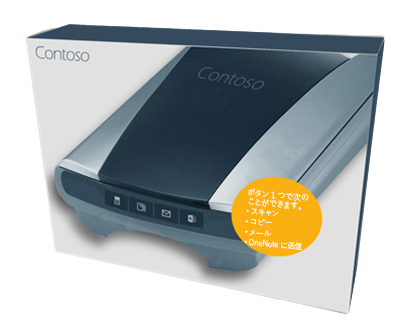
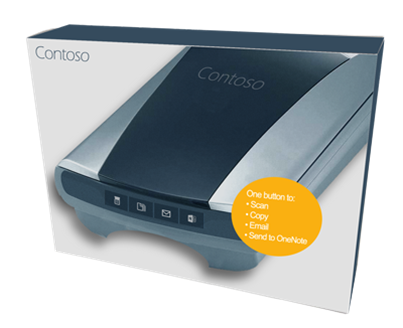
commit bilingual contents

diff --git a/concepts/onenote-branding.md b/concepts/onenote-branding.md
@@ -4,182 +4,182 @@ description: " "
 author: jewan-microsoft
 localization_priority: Normal
 ms.prod: onenote
-ms.openlocfilehash: 472b1cf54582dfde21bb2137c5d4628d17664e94
-ms.sourcegitcommit: 36be044c89a19af84c93e586e22200ec919e4c9f
-ms.translationtype: HT
+ms.openlocfilehash: 416b059eabe277dc356e3ac9c1de5849ade8aa23
+ms.sourcegitcommit: bbe42a15dad4ffe037a6934ab6001b585b7574c2
+ms.translationtype: MT
 ms.contentlocale: ja-JP
-ms.lasthandoff: 01/12/2019
-ms.locfileid: "27928872"
+ms.lasthandoff: 04/17/2019
+ms.locfileid: "31904078"
 ---
-# <a name="branding-guidelines-for-onenote-api-developers"></a><span data-ttu-id="44c05-102">OneNote API 開発者向けのブランドに関するガイドライン</span><span class="sxs-lookup"><span data-stu-id="44c05-102">Branding guidelines for OneNote API developers</span></span> 
+# <a name="branding-guidelines-for-onenote-api-developers"></a><span data-ttu-id="91a68-102">OneNote API 開発者向けのブランドに関するガイドライン</span><span class="sxs-lookup"><span data-stu-id="91a68-102">Branding guidelines for OneNote API developers</span></span> 
  
-<span data-ttu-id="44c05-103">**適用対象** OneDrive のコンシューマー ノートブック | Office 365 のエンタープライズ ノートブック</span><span class="sxs-lookup"><span data-stu-id="44c05-103">**Applies to** Consumer notebooks on OneDrive | Enterprise notebooks on Office 365</span></span>
+<span data-ttu-id="91a68-103">**適用対象** OneDrive のコンシューマー ノートブック | Office 365 のエンタープライズ ノートブック</span><span class="sxs-lookup"><span data-stu-id="91a68-103">**Applies to** Consumer notebooks on OneDrive | Enterprise notebooks on Office 365</span></span>
 
-<span data-ttu-id="44c05-104">この記事のガイドラインに従って、OneNote ブランドを最適な方法で製品に統合し、OneNote ブランド化の要件を満たしてください。</span><span class="sxs-lookup"><span data-stu-id="44c05-104">Follow the guidance in this article to best integrate the OneNote brand within your product and satisfy OneNote branding requirements.</span></span>
+<span data-ttu-id="91a68-104">この記事のガイドラインに従って、OneNote ブランドを最適な方法で製品に統合し、OneNote ブランド化の要件を満たしてください。</span><span class="sxs-lookup"><span data-stu-id="91a68-104">Follow the guidance in this article to best integrate the OneNote brand within your product and satisfy OneNote branding requirements.</span></span>
 
 <a name="download-logos"></a>
 
-## <a name="downloadable-logos"></a><span data-ttu-id="44c05-105">ダウンロード可能なロゴ</span><span class="sxs-lookup"><span data-stu-id="44c05-105">Downloadable logos</span></span>
+## <a name="downloadable-logos"></a><span data-ttu-id="91a68-105">ダウンロード可能なロゴ</span><span class="sxs-lookup"><span data-stu-id="91a68-105">Downloadable logos</span></span>
 
-<span data-ttu-id="44c05-106">この記事に示すロゴとガイドラインの PDF コピーは、「[OneNote API 開発者向けのブランドに関するガイドライン](https://www.microsoft.com/download/details.aspx?id=42977)」のダウンロード ページからダウンロードできます。</span><span class="sxs-lookup"><span data-stu-id="44c05-106">You can download the logos shown in this article and a PDF copy of these guidelines from our [Branding guidelines for OneNote API developers](https://www.microsoft.com/download/details.aspx?id=42977) download page.</span></span>
+<span data-ttu-id="91a68-106">この記事に示すロゴとガイドラインの PDF コピーは、「[OneNote API 開発者向けのブランドに関するガイドライン](https://www.microsoft.com/download/details.aspx?id=42977)」のダウンロード ページからダウンロードできます。</span><span class="sxs-lookup"><span data-stu-id="91a68-106">You can download the logos shown in this article and a PDF copy of these guidelines from our [Branding guidelines for OneNote API developers](https://www.microsoft.com/download/details.aspx?id=42977) download page.</span></span>
 
 <a name="variations"></a>
 
-## <a name="logo-variations"></a><span data-ttu-id="44c05-107">ロゴのバリエーション</span><span class="sxs-lookup"><span data-stu-id="44c05-107">Logo variations</span></span>
+## <a name="logo-variations"></a><span data-ttu-id="91a68-107">ロゴのバリエーション</span><span class="sxs-lookup"><span data-stu-id="91a68-107">Logo variations</span></span>
 
-### <a name="icon-and-name-lockup-preferred"></a><span data-ttu-id="44c05-108">アイコンと名称の一体化 (推奨)</span><span class="sxs-lookup"><span data-stu-id="44c05-108">Icon and name lockup (preferred)</span></span> 
+### <a name="icon-and-name-lockup-preferred"></a><span data-ttu-id="91a68-108">アイコンと名称の一体化 (推奨)</span><span class="sxs-lookup"><span data-stu-id="91a68-108">Icon and name lockup (preferred)</span></span> 
 
-<span data-ttu-id="44c05-109">アイコン シンボルと名称は一体化されています。</span><span class="sxs-lookup"><span data-stu-id="44c05-109">The icon symbol is locked with the name.</span></span> <span data-ttu-id="44c05-110">これが、OneNote ロゴに推奨されるグラフィック表現です。</span><span class="sxs-lookup"><span data-stu-id="44c05-110">This is the preferred graphic representation of the OneNote logo.</span></span>
+<span data-ttu-id="91a68-109">アイコン シンボルと名称は一体化されています。</span><span class="sxs-lookup"><span data-stu-id="91a68-109">The icon symbol is locked with the name.</span></span> <span data-ttu-id="91a68-110">これが、OneNote ロゴに推奨されるグラフィック表現です。</span><span class="sxs-lookup"><span data-stu-id="91a68-110">This is the preferred graphic representation of the OneNote logo.</span></span>
 
-![アイコンと名称の両方が含まれているロゴ。](images/onenotelogobgs.png)
+![Logos that includes both the icon and the name.](images/onenotelogobgs.png)
 
-### <a name="icon-symbol"></a><span data-ttu-id="44c05-113">アイコン シンボル</span><span class="sxs-lookup"><span data-stu-id="44c05-113">Icon symbol</span></span> 
+### <a name="icon-symbol"></a><span data-ttu-id="91a68-113">アイコン シンボル</span><span class="sxs-lookup"><span data-stu-id="91a68-113">Icon symbol</span></span> 
 
-<span data-ttu-id="44c05-p103">小型デバイスなどの特定の環境には、完全なロゴの一体化のために十分なスペースが用意できません。このような場合は、アプリやデジタル マーケティングにアイコン シンボルのみを使用してもかまいません。アプリで使用する際には、OneNote を表すアイコンまたはファビコンが必要なときにのみ、アイコン シンボルだけを単独で使用します。</span><span class="sxs-lookup"><span data-stu-id="44c05-p103">Certain environments, such as on small devices, don't provide enough room for the entire logo lockup. In those cases, the icon symbol alone may be used in an app or in digital marketing. When used in an app, use the icon symbol alone only when you need an icon or favicon to represent OneNote.</span></span>
+<span data-ttu-id="91a68-p103">小型デバイスなどの特定の環境には、完全なロゴの一体化のために十分なスペースが用意できません。このような場合は、アプリやデジタル マーケティングにアイコン シンボルのみを使用してもかまいません。アプリで使用する際には、OneNote を表すアイコンまたはファビコンが必要なときにのみ、アイコン シンボルだけを単独で使用します。</span><span class="sxs-lookup"><span data-stu-id="91a68-p103">Certain environments, such as on small devices, don't provide enough room for the entire logo lockup. In those cases, the icon symbol alone may be used in an app or in digital marketing. When used in an app, use the icon symbol alone only when you need an icon or favicon to represent OneNote.</span></span>
 
-![アイコンのみを含むロゴ。](images/onenotelogoicon.png)
+![Logo that includes only the icon.  Versions with purple on white and reversed.](images/onenotelogoicon.png)
 
 <a name="spacing"></a>
 
-## <a name="clear-space"></a><span data-ttu-id="44c05-119">クリア スペース</span><span class="sxs-lookup"><span data-stu-id="44c05-119">Clear space</span></span> 
+## <a name="clear-space"></a><span data-ttu-id="91a68-119">クリア スペース</span><span class="sxs-lookup"><span data-stu-id="91a68-119">Clear space</span></span> 
 
-<span data-ttu-id="44c05-p105">ロゴは丁寧に扱い、周囲に空きスペースを取ってください。最小クリア スペースは、ロゴの周囲にアイコン シンボルをちょうど配置できるスペースです。</span><span class="sxs-lookup"><span data-stu-id="44c05-p105">Treat the logo with respect and give it room to breathe. A minimum clear space equivalent to the height of the symbol must surround the logo.</span></span>
+<span data-ttu-id="91a68-p105">ロゴは丁寧に扱い、周囲に空きスペースを取ってください。最小クリア スペースは、ロゴの周囲にアイコン シンボルをちょうど配置できるスペースです。</span><span class="sxs-lookup"><span data-stu-id="91a68-p105">Treat the logo with respect and give it room to breathe. A minimum clear space equivalent to the height of the symbol must surround the logo.</span></span>
 
-![アイコンのみを含むロゴ -- 白地に紫と、それを反転したもの](images/onenotelogoclearspace.png)
+![シンボルの高さであるクリア psace を示すロゴ](images/onenotelogoclearspace.png)
 
 
 <a name="size"></a>
 
-## <a name="minimum-size"></a><span data-ttu-id="44c05-123">最小サイズ</span><span class="sxs-lookup"><span data-stu-id="44c05-123">Minimum size</span></span> 
+## <a name="minimum-size"></a><span data-ttu-id="91a68-123">最小サイズ</span><span class="sxs-lookup"><span data-stu-id="91a68-123">Minimum size</span></span> 
 
-<span data-ttu-id="44c05-124">ロゴは、画面に表示する場合は最低 16 ピクセルの高さにします。また、印刷物に表示する場合は最低 5 mm (0.2 インチ) の高さにします。</span><span class="sxs-lookup"><span data-stu-id="44c05-124">The logo should be at least 16 pixels high when it appears on-screen and at least 5 mm (0.2 inches) high when it appears in print.</span></span>
+<span data-ttu-id="91a68-124">ロゴは、画面に表示する場合は最低 16 ピクセルの高さにします。また、印刷物に表示する場合は最低 5 mm (0.2 インチ) の高さにします。</span><span class="sxs-lookup"><span data-stu-id="91a68-124">The logo should be at least 16 pixels high when it appears on-screen and at least 5 mm (0.2 inches) high when it appears in print.</span></span>
 
-<span data-ttu-id="44c05-125">**画面:**&nbsp;&nbsp;16 ピクセル</span><span class="sxs-lookup"><span data-stu-id="44c05-125">**Screen:**&nbsp;&nbsp;16 pixels</span></span>
+<span data-ttu-id="91a68-125">**Screen:**&nbsp;&nbsp;16 pixels</span><span class="sxs-lookup"><span data-stu-id="91a68-125">**Screen:**&nbsp;&nbsp;16 pixels</span></span>
  
-<span data-ttu-id="44c05-126">**印刷:**&nbsp;&nbsp;5 mm (0.2 インチ)</span><span class="sxs-lookup"><span data-stu-id="44c05-126">**Print:**&nbsp;&nbsp;5 mm (0.2 inches)</span></span> 
+<span data-ttu-id="91a68-126">**印刷:**&nbsp;&nbsp;5 mm (0.2 インチ)</span><span class="sxs-lookup"><span data-stu-id="91a68-126">**Print:**&nbsp;&nbsp;5 mm (0.2 inches)</span></span> 
 
-![アイコンのみを含むロゴ -- 白地に紫と、それを反転したもの](images/onenotelogominsize.png)
+![画面および印刷の最小サイズを示すロゴ](images/onenotelogominsize.png)
 
 
 <a name="color"></a>
 
-## <a name="color"></a><span data-ttu-id="44c05-128">色</span><span class="sxs-lookup"><span data-stu-id="44c05-128">Color</span></span>
+## <a name="color"></a><span data-ttu-id="91a68-128">色</span><span class="sxs-lookup"><span data-stu-id="91a68-128">Color</span></span>
 
-<span data-ttu-id="44c05-p106">OneNote ロゴを白色または明るい色の背景で使用する場合、推奨されるロゴの色はブランド カラー&mdash;紫色です。紫色の背景に表示する場合は、ロゴを白抜きにします。</span><span class="sxs-lookup"><span data-stu-id="44c05-p106">When the OneNote logo is used on white or light backgrounds, the preferred logo color is purple&mdash;its brand color. When it appears on a purple background, the logo should be knocked out to white.</span></span>
+<span data-ttu-id="91a68-p106">OneNote ロゴを白色または明るい色の背景で使用する場合、推奨されるロゴの色はブランド カラー&mdash;紫色です。紫色の背景に表示する場合は、ロゴを白抜きにします。</span><span class="sxs-lookup"><span data-stu-id="91a68-p106">When the OneNote logo is used on white or light backgrounds, the preferred logo color is purple&mdash;its brand color. When it appears on a purple background, the logo should be knocked out to white.</span></span>
 
-<span data-ttu-id="44c05-131">**画面:**&nbsp;&nbsp;R128 G57 B123 または Hex #80397B</span><span class="sxs-lookup"><span data-stu-id="44c05-131">**Screen:**&nbsp;&nbsp;R128 G57 B123 or Hex #80397B</span></span>
+<span data-ttu-id="91a68-131">**画面:**&nbsp;&nbsp;R128 G57 B123 または Hex #80397B</span><span class="sxs-lookup"><span data-stu-id="91a68-131">**Screen:**&nbsp;&nbsp;R128 G57 B123 or Hex #80397B</span></span>
 
-<span data-ttu-id="44c05-132">**印刷:**&nbsp;&nbsp;C75 M100 Y0 K0</span><span class="sxs-lookup"><span data-stu-id="44c05-132">**Print:**&nbsp;&nbsp;C75 M100 Y0 K0</span></span> 
+<span data-ttu-id="91a68-132">印刷: C75 M100 Y0 K0</span><span class="sxs-lookup"><span data-stu-id="91a68-132">**Print:**&nbsp;&nbsp;C75 M100 Y0 K0</span></span> 
 
-  ![アイコンのみを含むロゴ -- 白地に紫と、それを反転したもの](images/onenotelogobgs.png)
+  ![ロゴ shwoing の推奨ブランドカラーを白とブランドの色の背景と共に使用する](images/onenotelogobgs.png)
  
-<span data-ttu-id="44c05-p107">色の限られた環境や単色のデザインの場合は、ロゴを黒で表示することができます。ただし、ロゴを決して灰色では表示しないでください。<!--or white?--></span><span class="sxs-lookup"><span data-stu-id="44c05-p107">In color-limited environments and one-color designs, the logo can appear in black. However, the logo should never appear in gray. <!--or white?--></span></span>
+<span data-ttu-id="91a68-p107">色の限られた環境や単色のデザインの場合は、ロゴを黒で表示することができます。ただし、ロゴを決して灰色では表示しないでください。 However, the logo should never appear in gray. </span><span class="sxs-lookup"><span data-stu-id="91a68-p107">In color-limited environments and one-color designs, the logo can appear in black. However, the logo should never appear in gray. </span></span><!--or white?-->
 
 <a name="do-nots"></a>
 
-## <a name="logo-donts"></a><span data-ttu-id="44c05-136">ロゴの注意事項</span><span class="sxs-lookup"><span data-stu-id="44c05-136">Logo don’ts</span></span>
+## <a name="logo-donts"></a><span data-ttu-id="91a68-136">ロゴの注意事項</span><span class="sxs-lookup"><span data-stu-id="91a68-136">Logo don’ts</span></span>
 
-<span data-ttu-id="44c05-137">**ロゴまたはアイコンを色付きの背景に配置しないでください。**</span><span class="sxs-lookup"><span data-stu-id="44c05-137">**Don’t place the logo or icon on a color background**</span></span> 
+<span data-ttu-id="91a68-137">**ロゴまたはアイコンを色付きの背景に配置しないでください。**</span><span class="sxs-lookup"><span data-stu-id="91a68-137">**Don’t place the logo or icon on a color background**</span></span> 
 
 ![色付きの背景に配置したロゴ](images/onenotelogodonts1.png)
 
 <br/>
 
-<span data-ttu-id="44c05-139">**スケールや縦横比を変更しないでください**</span><span class="sxs-lookup"><span data-stu-id="44c05-139">**Don’t change the scale or the proportions**</span></span>
+<span data-ttu-id="91a68-139">**スケールや縦横比を変更しないでください**</span><span class="sxs-lookup"><span data-stu-id="91a68-139">**Don’t change the scale or the proportions**</span></span>
 
 ![歪んだアイコン](images/onenotelogodonts2.png)
 
 <br/>
 
-<span data-ttu-id="44c05-141">**影付きでは使用しないでください。**</span><span class="sxs-lookup"><span data-stu-id="44c05-141">**Don’t use a drop shadow**</span></span>
+<span data-ttu-id="91a68-141">**影付きでは使用しないでください。**</span><span class="sxs-lookup"><span data-stu-id="91a68-141">**Don’t use a drop shadow**</span></span>
 
 ![影付きのアイコン](images/onenotelogodonts3.png)
 
 <br/>
 
-<span data-ttu-id="44c05-143">**色を変えないでください。ただし、黒色または白色を除きます** (「[配色](#color)」を参照)。</span><span class="sxs-lookup"><span data-stu-id="44c05-143">**Don’t change the color, except to black or white** (see [Color](#color))</span></span>
+<span data-ttu-id="91a68-143">**色を変えないでください。ただし、黒色または白色を除きます** (「[配色](#color)」を参照)。</span><span class="sxs-lookup"><span data-stu-id="91a68-143">**Don’t change the color, except to black or white** (see [Color](#color))</span></span>
 
 ![緑色のアイコン](images/onenotelogodonts4.png) 
 
 <br/>
 
-<span data-ttu-id="44c05-145">**ロゴまたはアイコンを回転させないでください**</span><span class="sxs-lookup"><span data-stu-id="44c05-145">**Don’t rotate the logo or icon**</span></span>   
+<span data-ttu-id="91a68-145">**ロゴまたはアイコンを回転させないでください**</span><span class="sxs-lookup"><span data-stu-id="91a68-145">**Don’t rotate the logo or icon**</span></span>   
 
 ![回転したアイコン](images/onenotelogodonts5.png)
 
 <br/>
 
-<span data-ttu-id="44c05-147">**ロゴ内の要素の配置を変えないでください。**</span><span class="sxs-lookup"><span data-stu-id="44c05-147">**Don’t rearrange the logo elements**</span></span> 
+<span data-ttu-id="91a68-147">**ロゴ内の要素の配置を変えないでください。**</span><span class="sxs-lookup"><span data-stu-id="91a68-147">**Don’t rearrange the logo elements**</span></span> 
 
 ![名称の上にあるアイコン](images/onenotelogodonts6.png)
 
 <br/>
 
-<span data-ttu-id="44c05-149">**押し出しや傾斜などの効果を使用しないでください。**</span><span class="sxs-lookup"><span data-stu-id="44c05-149">**Don’t use an effect such as extrude and bevel**</span></span>  
+<span data-ttu-id="91a68-149">**押し出しや傾斜などの効果を使用しないでください。**</span><span class="sxs-lookup"><span data-stu-id="91a68-149">**Don’t use an effect such as extrude and bevel**</span></span>  
 
 ![特殊効果を付けたアイコン](images/onenotelogodonts7.png)
 
 <br/>
 
-<span data-ttu-id="44c05-151">**新しいロゴやアイコンを作成しないでください。**</span><span class="sxs-lookup"><span data-stu-id="44c05-151">**Don’t create a new logo or icon**</span></span>
+<span data-ttu-id="91a68-151">**新しいロゴやアイコンを作成しないでください。**</span><span class="sxs-lookup"><span data-stu-id="91a68-151">**Don’t create a new logo or icon**</span></span>
 
 ![カスタム アイコン](images/onenotelogodonts8.png)
 
  
 <a name="name"></a>
 
-## <a name="referencing-the-onenote-name"></a><span data-ttu-id="44c05-153">OneNote の名称について</span><span class="sxs-lookup"><span data-stu-id="44c05-153">Referencing the OneNote name</span></span>
+## <a name="referencing-the-onenote-name"></a><span data-ttu-id="91a68-153">OneNote の名称について</span><span class="sxs-lookup"><span data-stu-id="91a68-153">Referencing the OneNote name</span></span>
 
-<span data-ttu-id="44c05-154">**フル ネーム:**&nbsp;&nbsp;Microsoft OneNote</span><span class="sxs-lookup"><span data-stu-id="44c05-154">**Full name:**&nbsp;&nbsp;Microsoft OneNote</span></span> 
+<span data-ttu-id="91a68-154">**Full name:**&nbsp;&nbsp;Microsoft OneNote</span><span class="sxs-lookup"><span data-stu-id="91a68-154">**Full name:**&nbsp;&nbsp;Microsoft OneNote</span></span> 
 
-<span data-ttu-id="44c05-155">**短い名前:**&nbsp;&nbsp;OneNote</span><span class="sxs-lookup"><span data-stu-id="44c05-155">**Short name:**&nbsp;&nbsp;OneNote</span></span>
+<span data-ttu-id="91a68-155">**短い名前:**&nbsp;&nbsp;OneNote</span><span class="sxs-lookup"><span data-stu-id="91a68-155">**Short name:**&nbsp;&nbsp;OneNote</span></span>
  
-<span data-ttu-id="44c05-156">さまざまなコンテキストで OneNote を指し示す方法の詳細について、次の表で説明します。</span><span class="sxs-lookup"><span data-stu-id="44c05-156">See the following table for details about how to refer to OneNote in various contexts.</span></span>
+<span data-ttu-id="91a68-156">さまざまなコンテキストで OneNote を指し示す方法の詳細について、次の表で説明します。</span><span class="sxs-lookup"><span data-stu-id="91a68-156">See the following table for details about how to refer to OneNote in various contexts.</span></span>
 
-| <span data-ttu-id="44c05-157">Context</span><span class="sxs-lookup"><span data-stu-id="44c05-157">Context</span></span> | <span data-ttu-id="44c05-158">使用例</span><span class="sxs-lookup"><span data-stu-id="44c05-158">Usage</span></span> |
+| <span data-ttu-id="91a68-157">Context</span><span class="sxs-lookup"><span data-stu-id="91a68-157">Context</span></span> | <span data-ttu-id="91a68-158">使用例</span><span class="sxs-lookup"><span data-stu-id="91a68-158">Usage</span></span> |
 |------|------|
-| <span data-ttu-id="44c05-159">アプリ名</span><span class="sxs-lookup"><span data-stu-id="44c05-159">App names</span></span> | <span data-ttu-id="44c05-160">アプリ ストアで消費者が混乱しないように、アプリ名に *OneNote* を含めないようにすることをお勧めします。</span><span class="sxs-lookup"><span data-stu-id="44c05-160">To avoid confusing consumers within the app stores, we prefer that *OneNote* not be included in the name of your app.</span></span> <span data-ttu-id="44c05-161">*OneNote* をアプリ名で使用する場合、*OneNote* に前置詞を付ける必要があります (たとえば、*for OneNote* や *with OneNote* のようにします)。</span><span class="sxs-lookup"><span data-stu-id="44c05-161">If it’s determined that *OneNote* must be used in the app name, *OneNote* must be modified by a preposition (for example, *for OneNote* or *with OneNote*).</span></span><br/><br/><span data-ttu-id="44c05-162">例:&nbsp;&nbsp;*Proseware for OneNote*</span><span class="sxs-lookup"><span data-stu-id="44c05-162">Example:&nbsp;&nbsp;*Proseware for OneNote*</span></span><br/><br/><span data-ttu-id="44c05-163">アプリの名前を *OneNote* から始めることはできません。</span><span class="sxs-lookup"><span data-stu-id="44c05-163">Under no circumstances can the name of your app begin with *OneNote*.</span></span>
-| <span data-ttu-id="44c05-164">発行者の名前</span><span class="sxs-lookup"><span data-stu-id="44c05-164">Publisher names</span></span> | <span data-ttu-id="44c05-p109">発行者の名前に *OneNote* を含めてはなりません。発行者の名前が Microsoft の商標権を侵害するものであってはなりません。</span><span class="sxs-lookup"><span data-stu-id="44c05-p109">The publisher’s name may not include a reference to *OneNote*. The publisher’s name may not infringe upon any Microsoft trademarks.</span></span> |
-| <span data-ttu-id="44c05-167">OneNote との相互運用性を示す場合</span><span class="sxs-lookup"><span data-stu-id="44c05-167">Indicating interoperability with OneNote</span></span> | <span data-ttu-id="44c05-168">**推奨:**&nbsp;&nbsp;Send to OneNote</span><span class="sxs-lookup"><span data-stu-id="44c05-168">**Recommended:**&nbsp;&nbsp;Send to OneNote</span></span><br/><br/><span data-ttu-id="44c05-169">**許容範囲:**&nbsp;&nbsp;Share with OneNote</span><span class="sxs-lookup"><span data-stu-id="44c05-169">**Acceptable:**&nbsp;&nbsp;Share with OneNote</span></span><br/><span data-ttu-id="44c05-170">他のアプリケーションと "共有する" ことを意味する場合、許容範囲となります。たとえば、*Share with OneNote、Facebook、Twitter* は許容範囲です。</span><span class="sxs-lookup"><span data-stu-id="44c05-170">Acceptable when used in reference to "sharing" with other applications—for example, *Share with OneNote, Facebook, or Twitter.*)</span></span><br/><br/><span data-ttu-id="44c05-171">**禁止:**&nbsp;&nbsp;Save to OneNote</span><span class="sxs-lookup"><span data-stu-id="44c05-171">**Never:**&nbsp;&nbsp;Save to OneNote</span></span><br/><span data-ttu-id="44c05-172">これは技術的には正しくありません。</span><span class="sxs-lookup"><span data-stu-id="44c05-172">This is technically incorrect.</span></span> |
-| <span data-ttu-id="44c05-173">一般的なマーケティング (アプリの説明を含む)</span><span class="sxs-lookup"><span data-stu-id="44c05-173">General marketing (including app descriptions)</span></span> | <span data-ttu-id="44c05-174">最初に発言するときはフルネームを使用してください。*Microsoft OneNote*.</span><span class="sxs-lookup"><span data-stu-id="44c05-174">The first mention in a communication should use the full name: *Microsoft OneNote*.</span></span><br /><br /><span data-ttu-id="44c05-175">その後、短い形式の名前を使用できます。*OneNote*.</span><span class="sxs-lookup"><span data-stu-id="44c05-175">Subsequent references in the communication can use the short name: *OneNote*.</span></span>
+| <span data-ttu-id="91a68-159">アプリ名</span><span class="sxs-lookup"><span data-stu-id="91a68-159">App names</span></span> | <span data-ttu-id="91a68-160">アプリ ストアで消費者が混乱しないように、アプリ名に *OneNote* を含めないようにすることをお勧めします。</span><span class="sxs-lookup"><span data-stu-id="91a68-160">To avoid confusing consumers within the app stores, we prefer that *OneNote* not be included in the name of your app.</span></span> <span data-ttu-id="91a68-161">*OneNote* をアプリ名で使用する場合、*OneNote* に前置詞を付ける必要があります (たとえば、*for OneNote* や *with OneNote* のようにします)。</span><span class="sxs-lookup"><span data-stu-id="91a68-161">If it’s determined that *OneNote* must be used in the app name, *OneNote* must be modified by a preposition (for example, *for OneNote* or *with OneNote*).</span></span><br/><br/><span data-ttu-id="91a68-162">例:&nbsp;&nbsp;*Proseware for OneNote*</span><span class="sxs-lookup"><span data-stu-id="91a68-162">Example:&nbsp;&nbsp;*Proseware for OneNote*</span></span><br/><br/><span data-ttu-id="91a68-163">アプリの名前を *OneNote* から始めることはできません。</span><span class="sxs-lookup"><span data-stu-id="91a68-163">Under no circumstances can the name of your app begin with *OneNote*.</span></span>
+| <span data-ttu-id="91a68-164">発行者の名前</span><span class="sxs-lookup"><span data-stu-id="91a68-164">Publisher names</span></span> | <span data-ttu-id="91a68-p109">発行者の名前に *OneNote* を含めてはなりません。発行者の名前が Microsoft の商標権を侵害するものであってはなりません。</span><span class="sxs-lookup"><span data-stu-id="91a68-p109">The publisher’s name may not include a reference to *OneNote*. The publisher’s name may not infringe upon any Microsoft trademarks.</span></span> |
+| <span data-ttu-id="91a68-167">OneNote との相互運用性を示す場合</span><span class="sxs-lookup"><span data-stu-id="91a68-167">Indicating interoperability with OneNote</span></span> | <span data-ttu-id="91a68-168">**Recommended:**&nbsp;&nbsp;Send to OneNote</span><span class="sxs-lookup"><span data-stu-id="91a68-168">**Recommended:**&nbsp;&nbsp;Send to OneNote</span></span><br/><br/><span data-ttu-id="91a68-169">**許容範囲:**&nbsp;&nbsp;Share with OneNote</span><span class="sxs-lookup"><span data-stu-id="91a68-169">**Acceptable:**&nbsp;&nbsp;Share with OneNote</span></span><br/><span data-ttu-id="91a68-170">他のアプリケーションと "共有する" ことを意味する場合、許容範囲となります。たとえば、*Share with OneNote、Facebook、Twitter* は許容範囲です。</span><span class="sxs-lookup"><span data-stu-id="91a68-170">Acceptable when used in reference to "sharing" with other applications—for example, *Share with OneNote, Facebook, or Twitter.*)</span></span><br/><br/><span data-ttu-id="91a68-171">**禁止:**&nbsp;&nbsp;Save to OneNote</span><span class="sxs-lookup"><span data-stu-id="91a68-171">**Never:**&nbsp;&nbsp;Save to OneNote</span></span><br/><span data-ttu-id="91a68-172">これは技術的には正しくありません。</span><span class="sxs-lookup"><span data-stu-id="91a68-172">This is technically incorrect.</span></span> |
+| <span data-ttu-id="91a68-173">一般的なマーケティング (アプリの説明を含む)</span><span class="sxs-lookup"><span data-stu-id="91a68-173">General marketing (including app descriptions)</span></span> | <span data-ttu-id="91a68-174">最初の言及箇所では完全な名前 (onnvlong) を使用する必要があります。</span><span class="sxs-lookup"><span data-stu-id="91a68-174">The first mention in a communication should use the full name: *Microsoft OneNote*.</span></span><br /><br /><span data-ttu-id="91a68-175">それ以後の言及箇所では短い名前 (*onnvshort*) を使用することができます。</span><span class="sxs-lookup"><span data-stu-id="91a68-175">Subsequent references in the communication can use the short name: *OneNote*.</span></span>
  
 <a name="examples"></a>
 
-## <a name="examples"></a><span data-ttu-id="44c05-176">例</span><span class="sxs-lookup"><span data-stu-id="44c05-176">Examples</span></span>
+## <a name="examples"></a><span data-ttu-id="91a68-176">例</span><span class="sxs-lookup"><span data-stu-id="91a68-176">Examples</span></span>
 
-<span data-ttu-id="44c05-177">**アプリケーション**</span><span class="sxs-lookup"><span data-stu-id="44c05-177">**Applications**</span></span>
+<span data-ttu-id="91a68-177">**アプリケーション**</span><span class="sxs-lookup"><span data-stu-id="91a68-177">**Applications**</span></span>
 
 ![モバイル アプリのロゴの良い例](images/onenoteusageapps.png)
 
 <br/>
 
-<span data-ttu-id="44c05-179">**広告**</span><span class="sxs-lookup"><span data-stu-id="44c05-179">**Advertising**</span></span>
+<span data-ttu-id="91a68-179">**広告**</span><span class="sxs-lookup"><span data-stu-id="91a68-179">**Advertising**</span></span>
 
 ![宣伝する場合のロゴの良い例](images/onenoteusageadvertising.jpg)
 
 <br/>
 
-<span data-ttu-id="44c05-181">**Web サイト**</span><span class="sxs-lookup"><span data-stu-id="44c05-181">**Website**</span></span>
+<span data-ttu-id="91a68-181">**Web サイト**</span><span class="sxs-lookup"><span data-stu-id="91a68-181">**Website**</span></span>
 
 ![Web サイトのロゴの良い例](images/onenoteusagewebsite.png)
 
 <br/>
 
-<span data-ttu-id="44c05-183">**パッケージング**</span><span class="sxs-lookup"><span data-stu-id="44c05-183">**Packaging**</span></span>
+<span data-ttu-id="91a68-183">**パッケージ**</span><span class="sxs-lookup"><span data-stu-id="91a68-183">**Packaging**</span></span>
 
 ![パッケージングのロゴの良い例](images/onenoteusagepackaging1.png)
 
-![パッケージングのロゴの良い例](images/onenoteusagepackaging2.png)
+![パッケージ化されたロゴの適切な例のもう1つのビュー](images/onenoteusagepackaging2.png)
 
 
-<span data-ttu-id="44c05-186">ここで説明したガイドラインについて質問がある場合や、ここで説明したブランド資産を使用した新しい伝達文書を作成している場合は、[@onenotedev](https://twitter.com/onenotedev) までお問い合わせください。</span><span class="sxs-lookup"><span data-stu-id="44c05-186">If you have any questions about these guidelines or are creating new communications using the brand assets shown here, contact us at [@onenotedev](https://twitter.com/onenotedev).</span></span>
+<span data-ttu-id="91a68-186">ここで説明したガイドラインについて質問がある場合や、ここで説明したブランド資産を使用した新しい伝達文書を作成している場合は、[@onenotedev](https://twitter.com/onenotedev) までお問い合わせください。</span><span class="sxs-lookup"><span data-stu-id="91a68-186">If you have any questions about these guidelines or are creating new communications using the brand assets shown here, contact us at [@onenotedev](https://twitter.com/onenotedev).</span></span>
 
-## <a name="see-also"></a><span data-ttu-id="44c05-187">関連項目</span><span class="sxs-lookup"><span data-stu-id="44c05-187">See also</span></span>
+## <a name="see-also"></a><span data-ttu-id="91a68-187">関連項目</span><span class="sxs-lookup"><span data-stu-id="91a68-187">See also</span></span>
 
-- <span data-ttu-id="44c05-188">[OneNote API 開発者向けのブランドに関するガイドライン](https://www.microsoft.com/download/details.aspx?id=42977) (ダウンロード ページ)</span><span class="sxs-lookup"><span data-stu-id="44c05-188">[Branding guidelines for OneNote API developers](https://www.microsoft.com/download/details.aspx?id=42977) (download page)</span></span>
-- [<span data-ttu-id="44c05-189">OneNote との統合</span><span class="sxs-lookup"><span data-stu-id="44c05-189">Integrate with OneNote</span></span>](integrate-with-onenote.md)
-- [<span data-ttu-id="44c05-190">OneNote の開発者ブログ</span><span class="sxs-lookup"><span data-stu-id="44c05-190">OneNote Developer Blog</span></span>](https://go.microsoft.com/fwlink/?LinkID=390183)
-- [<span data-ttu-id="44c05-191">Stack Overflow 掲載の OneNote の開発に関する質問</span><span class="sxs-lookup"><span data-stu-id="44c05-191">OneNote development questions on Stack Overflow</span></span>](https://go.microsoft.com/fwlink/?LinkID=390182)
-- [<span data-ttu-id="44c05-192">OneNote GitHub のリポジトリ</span><span class="sxs-lookup"><span data-stu-id="44c05-192">OneNote GitHub repos</span></span>](https://go.microsoft.com/fwlink/?LinkID=390178)  
+- <span data-ttu-id="91a68-188">[OneNote API 開発者向けのブランドに関するガイドライン](https://www.microsoft.com/download/details.aspx?id=42977) (ダウンロード ページ)</span><span class="sxs-lookup"><span data-stu-id="91a68-188">[Branding guidelines for OneNote API developers](https://www.microsoft.com/download/details.aspx?id=42977) (download page)</span></span>
+- [<span data-ttu-id="91a68-189">OneNote との統合</span><span class="sxs-lookup"><span data-stu-id="91a68-189">Integrate with OneNote</span></span>](integrate-with-onenote.md)
+- [<span data-ttu-id="91a68-190">OneNote の開発者ブログ</span><span class="sxs-lookup"><span data-stu-id="91a68-190">OneNote Developer Blog</span></span>](https://go.microsoft.com/fwlink/?LinkID=390183)
+- [<span data-ttu-id="91a68-191">Stack Overflow 掲載の OneNote の開発に関する質問</span><span class="sxs-lookup"><span data-stu-id="91a68-191">OneNote development questions on Stack Overflow</span></span>](https://go.microsoft.com/fwlink/?LinkID=390182)
+- [<span data-ttu-id="91a68-192">OneNote GitHub のリポジトリ</span><span class="sxs-lookup"><span data-stu-id="91a68-192">OneNote GitHub repos</span></span>](https://go.microsoft.com/fwlink/?LinkID=390178)  
 
 
